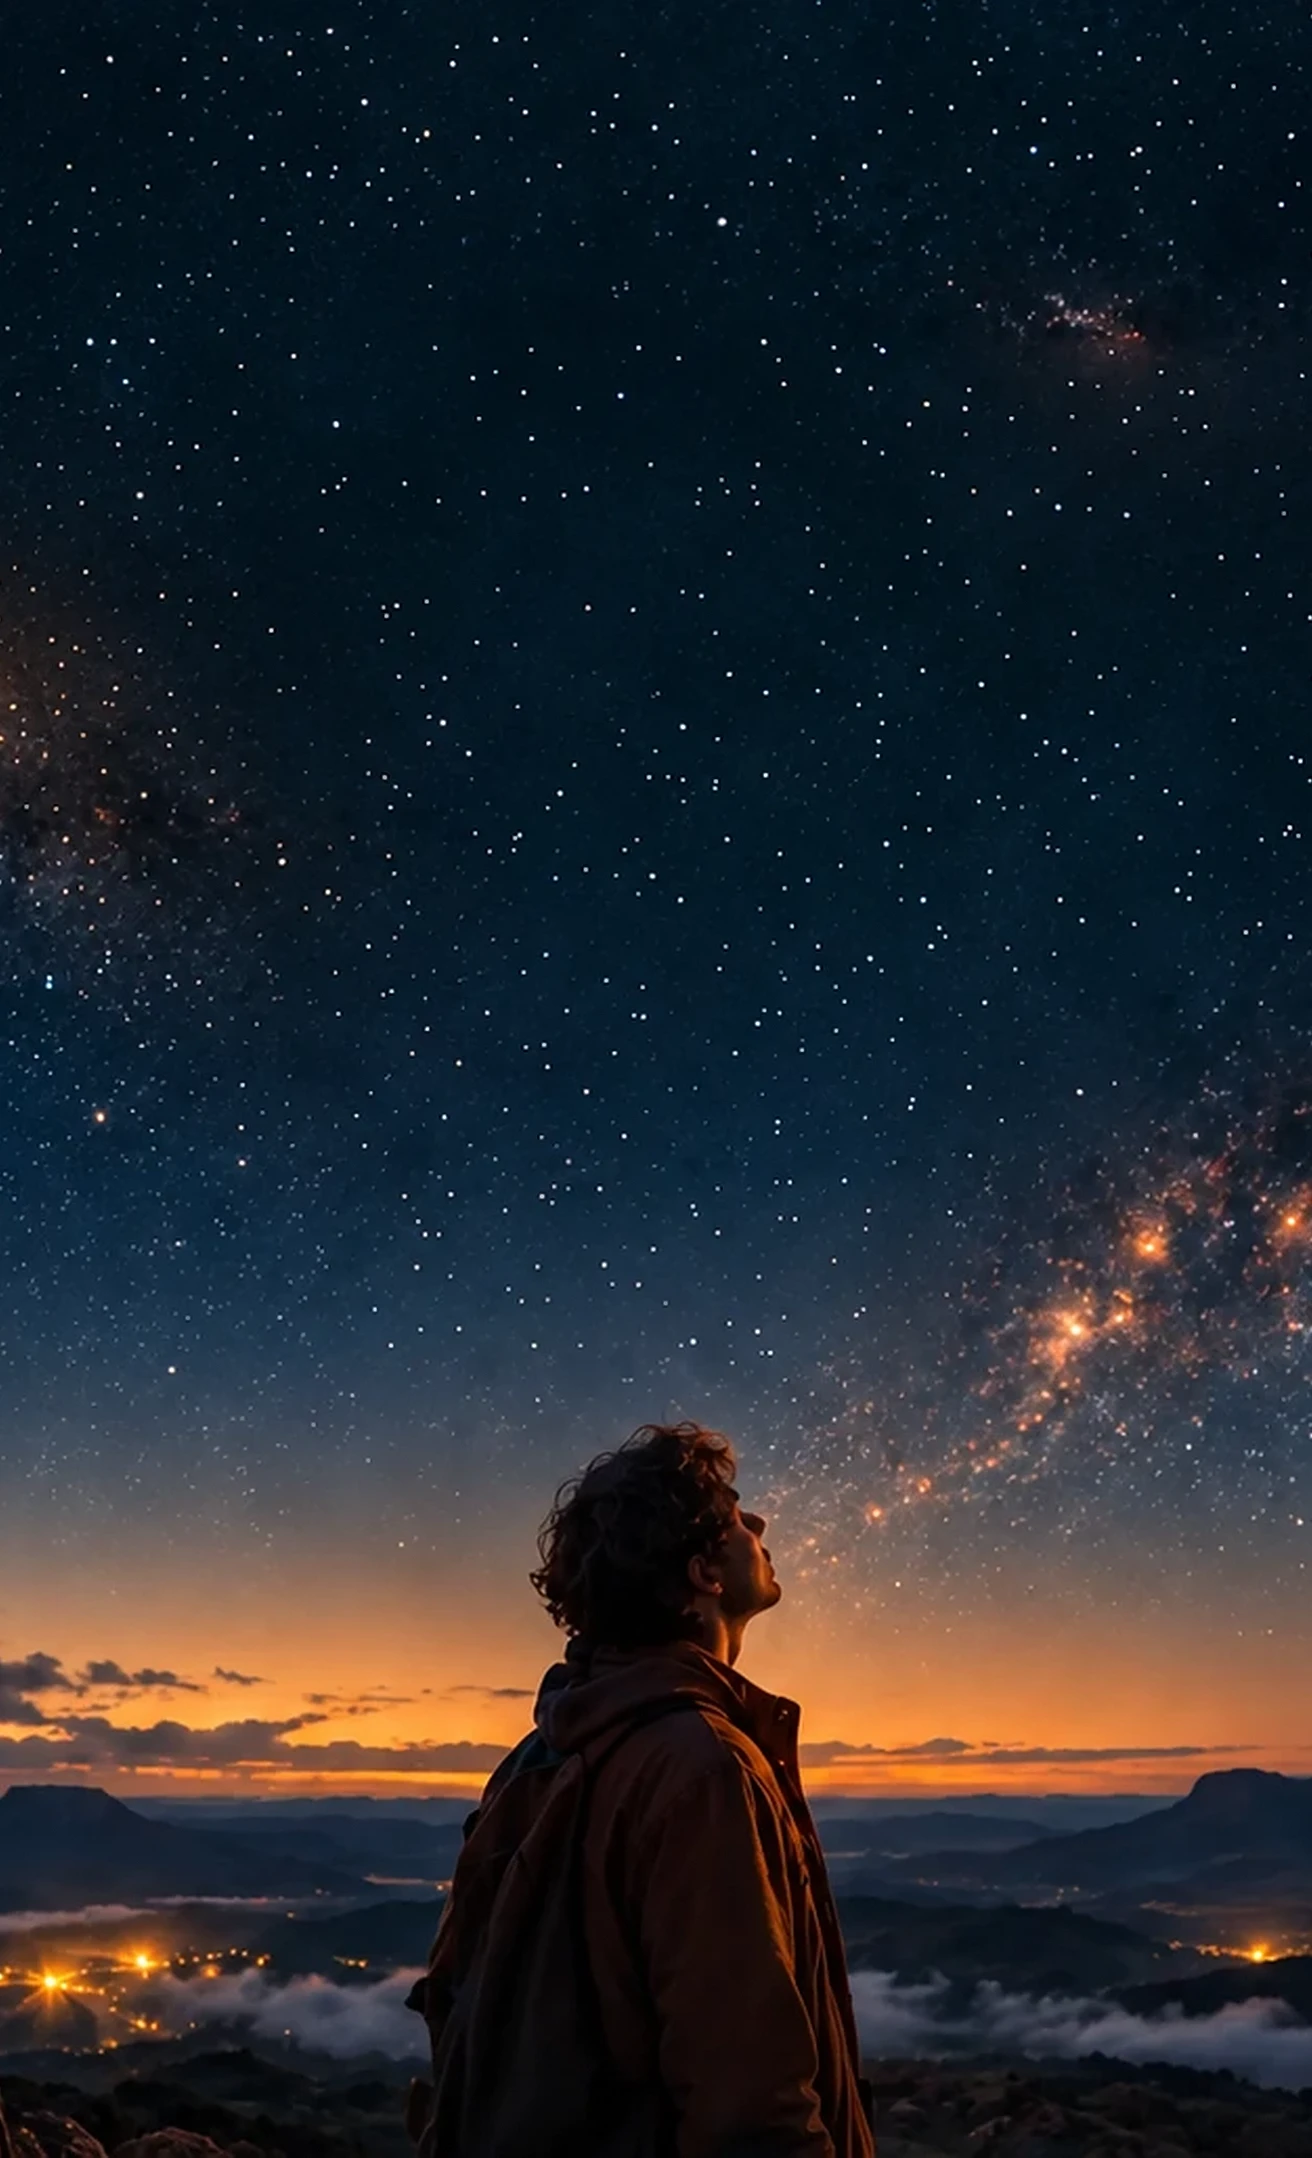
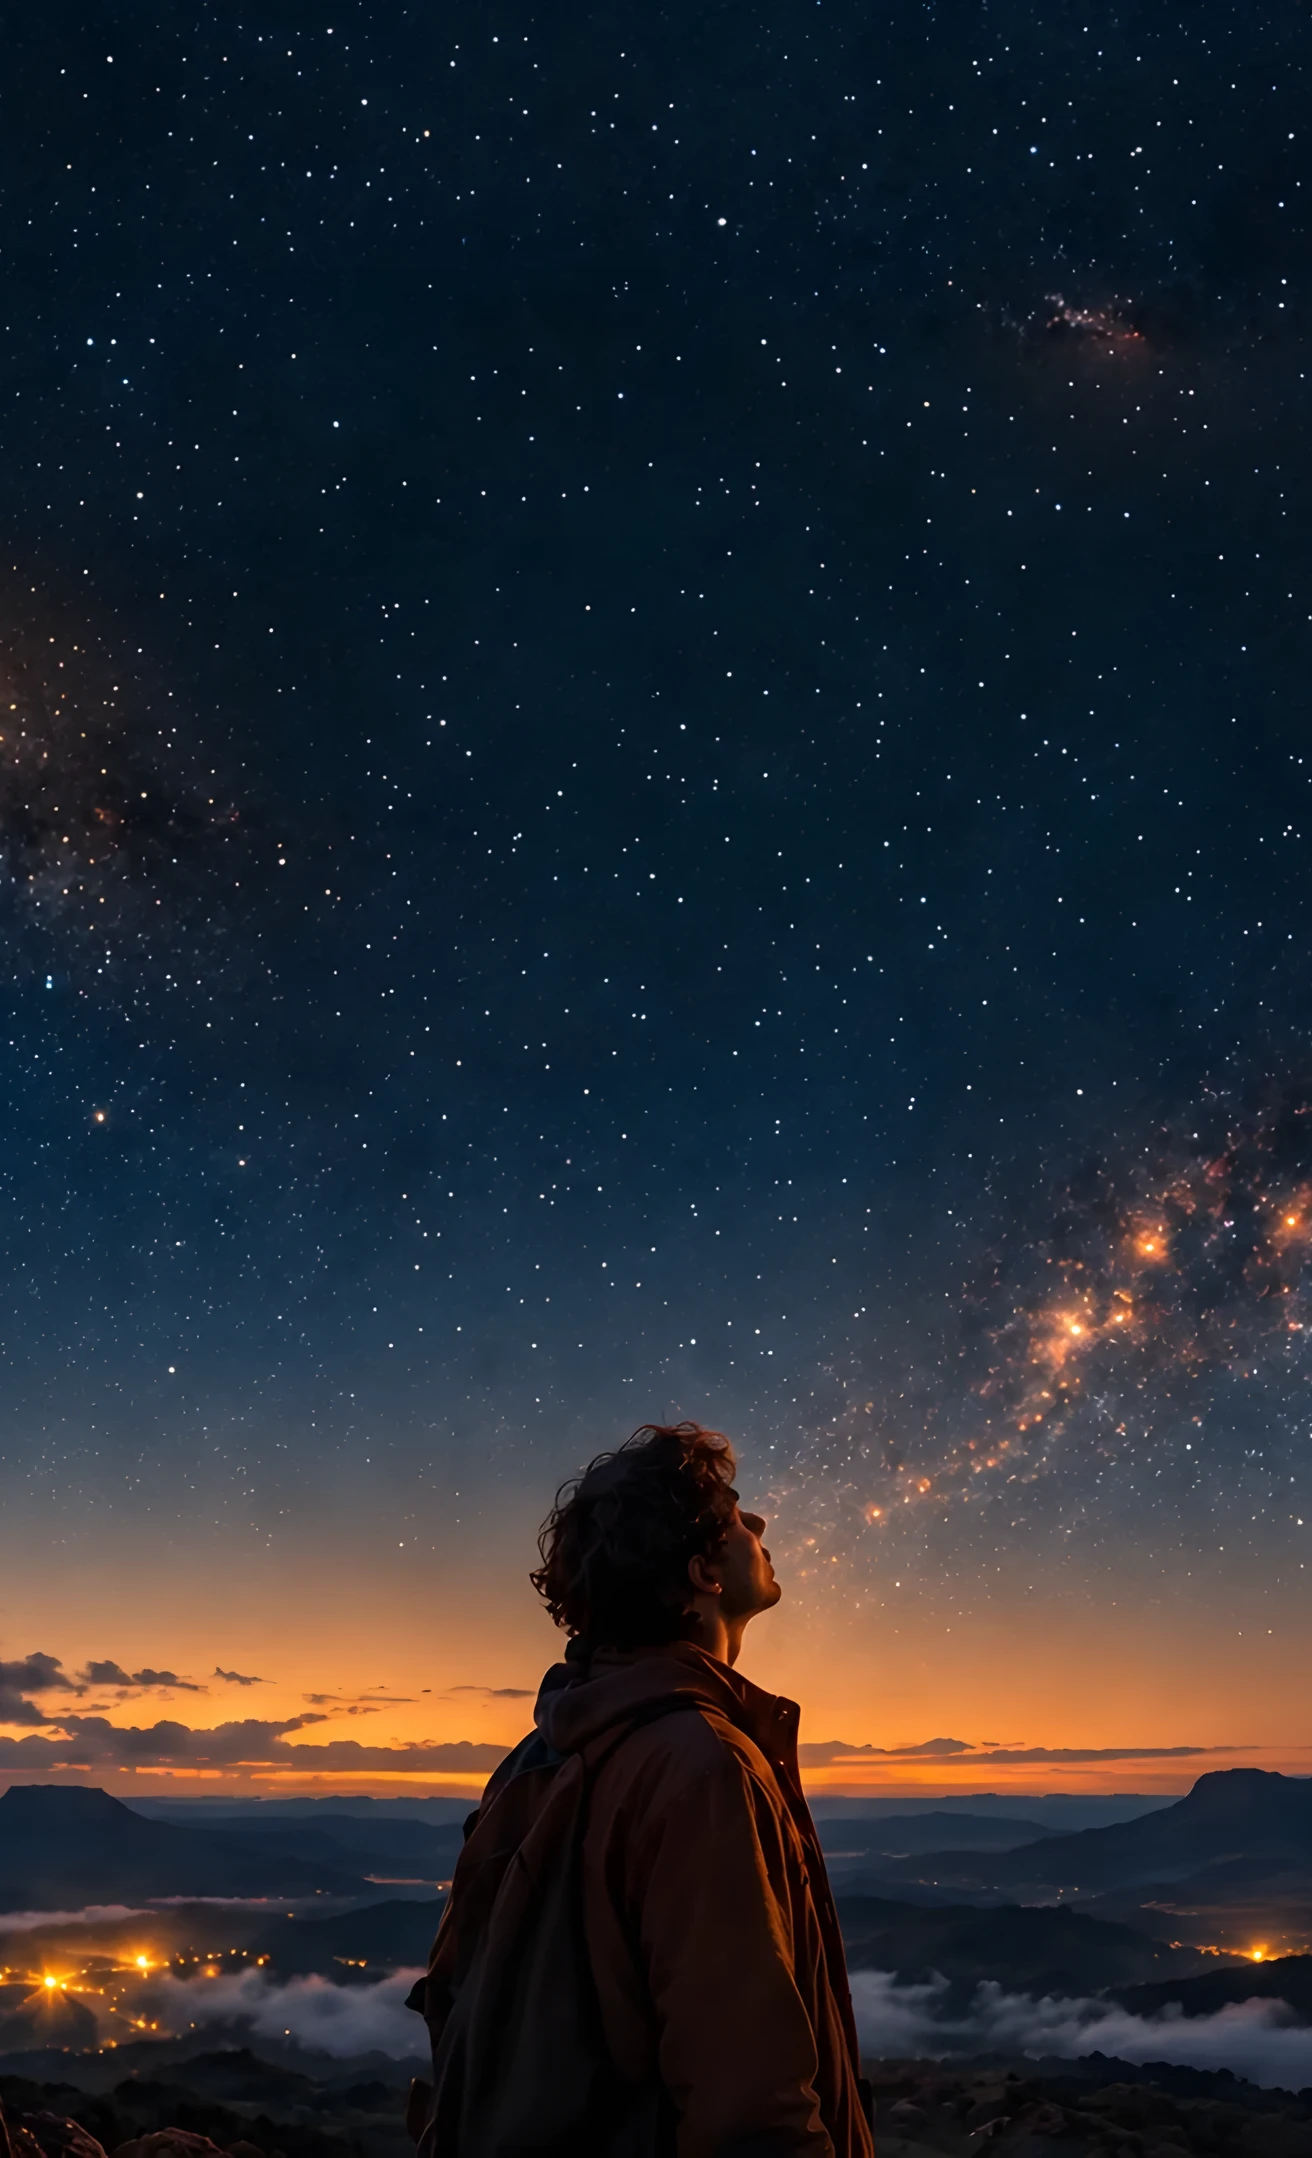
Make the welcome page's night sky HD with a trained upscaler (Real-ESRGAN x4plus), fitted to 3200 px with the same crop
The owner's clean 1527 x 1030 original was enlarged by the classical resampler last time; this uses Real-ESRGAN x4plus (realesrgan-ncnn-vulkan, the official release of
github.com/xinntao/Real-ESRGAN, run once on a laptop in about 5 minutes) to draw it at 4x (6108 x 4120): hair strands, sharp stars, branches, rock texture and the
village lights that a plain resampler cannot give. scripts/art/finish-hero-ai.mjs fits that output to the page: it is reduced to 3200 x 2158 with a Lanczos-3 filter
widened for the reduction, 20% of the classical resampling of the original is blended back in (so it stays photographic and not painted), a fine dither is added, and
it is exported as a lossy WebP at quality .92 (hero-night.webp about 520 KB). The phone's file is the same slice of the picture as before (29.6% to 70.6% of the width),
1312 x 2158, about 155 KB. The framing, the crop, the page's image sizes, the headline, the capsule, the email field and the live constellation are all unchanged.

The program and its 22 MB output are not in the repo; the command to make the 4x picture is at the top of finish-hero-ai.mjs and docs/welcome-page.md. The classical
upscale-hero.mjs stays as the fallback with no model. A trained model invents plausible detail, so a few tiny streaks can appear among the stars; the blend and the size
the page draws the picture at keep them out of sight.

Tests: frontend 73 files, 1268 tests.

diff --git a/docs/welcome-page.md b/docs/welcome-page.md
@@ -13,18 +13,18 @@
 | The email forms | `components/landing/SubscribeForm.jsx`, `hooks/useSubscribe.js` |
 | Styles | `frontend/src/welcome.css` (tokens in `styles.css`) |
 | The night-sky pictures | `frontend/public/img/hero-night.webp`, `hero-night-sm.webp` (phone) |
-| How the pictures are made | `frontend/scripts/art/upscale-hero.mjs` from `scripts/art/hero-night-source.webp` |
+| How the pictures are made | `frontend/scripts/art/finish-hero-ai.mjs` (from the Real-ESRGAN 4x of `scripts/art/hero-night-source.webp`); `upscale-hero.mjs` is the no-model fallback |
 | The link-preview picture | `frontend/scripts/make-og-image.mjs` writes `public/og-image.png` |
 
 It is pre-rendered at build (`scripts/prerender.mjs`) and hydrated: the build also asks, in the head, for the picture that the screen will use and for the two Instrument Serif files, and the page is not sent the snapshot the map draws from.
 
 ## The artwork
 
-The night sky is the clean, text-free original the owner supplied (1527 x 1030, kept as `scripts/art/hero-night-source.webp`), enlarged to **3200 x 2158** by `scripts/art/upscale-hero.mjs`: Lanczos-3 resampling in floats, an anti-ringing clamp, a soft-thresholded unsharp mask on the luminance only, and a fine dither, exported as a lossy WebP (quality .92, about 630 KB). The phone's file (`hero-night-sm.webp`, 1312 x 2158, about 190 KB) is the same slice of that picture as always (29.6% to 70.6% of its width, the person in the middle), cut from the enlarged picture, not enlarged again. The framing is the original's and the same as the page had before (checked by an alignment test: best match at zero shift and scale), so nothing in the layout moved. The picture is never stretched by CSS: it is drawn at or below its own size on every screen up to 3200 px wide (a 1440 px screen at 2x draws it at 0.9x).
+The night sky is the clean, text-free original the owner supplied (1527 x 1030, kept as `scripts/art/hero-night-source.webp`), made HD with a trained upscaler. **Real-ESRGAN x4plus** (the photo model, run on the laptop with `realesrgan-ncnn-vulkan`, the official release of github.com/xinntao/Real-ESRGAN) draws it at 4x (6108 x 4120): individual hair strands, sharp stars, tree branches, rock texture and the village lights, which a plain resampler cannot. `scripts/art/finish-hero-ai.mjs` then fits that output to the page: it is reduced to **3200 x 2158** with a Lanczos-3 filter widened for the reduction, 20% of the classical resampling of the original is blended back in (so it stays photographic, not painted), and a fine dither is added; the export is a lossy WebP at quality .92 (`hero-night.webp`, about 520 KB). The phone's file (`hero-night-sm.webp`, 1312 x 2158, about 155 KB) is the same slice of that picture as always (29.6% to 70.6% of the width, the person in the middle), cut from it, not enlarged again. The framing is the original's and the same as the page had before (an alignment test found the best match at zero shift and scale), so nothing in the layout moved. The picture is never stretched by CSS: a 1440 px screen at 2x draws it at 0.9x of its own size.
 
-It is a classical resampler, not a trained model: it makes edges and stars crisp but cannot invent detail the 1527 px original does not have, so a larger original would still be better. Every word on the page is live text and the constellation is a live drawing; none is in the picture. The pictures inside the product previews are SVG illustrations (`scenes.jsx`), not photographs.
+A trained model invents plausible detail, so it can leave small artifacts (a few tiny streaks among the stars); the blend and the size the page draws it at keep them out of sight. The classical route (`scripts/art/upscale-hero.mjs`: Lanczos-3, anti-ringing clamp, sharpening, no model) is kept as the fallback if the program is not at hand. Every word on the page is live text and the constellation is a live drawing; none is in the picture. The pictures inside the product previews are SVG illustrations (`scenes.jsx`), not photographs.
 
-To change the picture: replace `scripts/art/hero-night-source.webp` with a new original of the same framing and run `node scripts/art/upscale-hero.mjs` (add a third argument, a folder, to also write sharpness comparisons). If its aspect ratio is not 1527:1030, update the `width`/`height` of the two image tags in `Hero.jsx`.
+To change the picture: replace `scripts/art/hero-night-source.webp` with a new original of the same framing, make the 4x picture (command at the top of `finish-hero-ai.mjs`, about 5 minutes; the program and its 22 MB output are not in the repo), then run `node scripts/art/finish-hero-ai.mjs <the 4x png>` (add `--report=<folder>` for side-by-side comparisons). If the aspect ratio is not 1527:1030, update the `width`/`height` of the two image tags in `Hero.jsx`. A larger original is better still.
 
 ## Previews are previews
 
